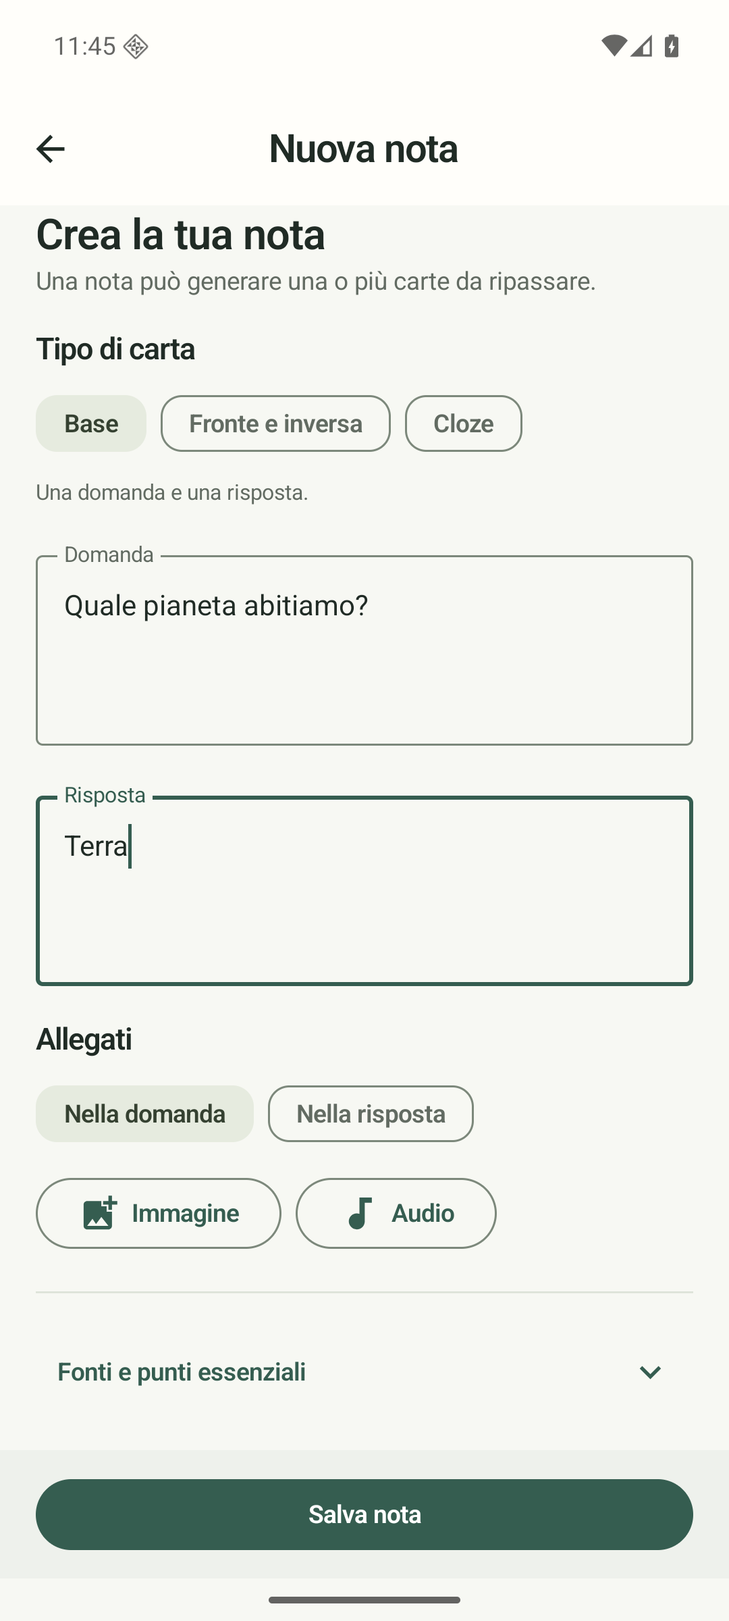
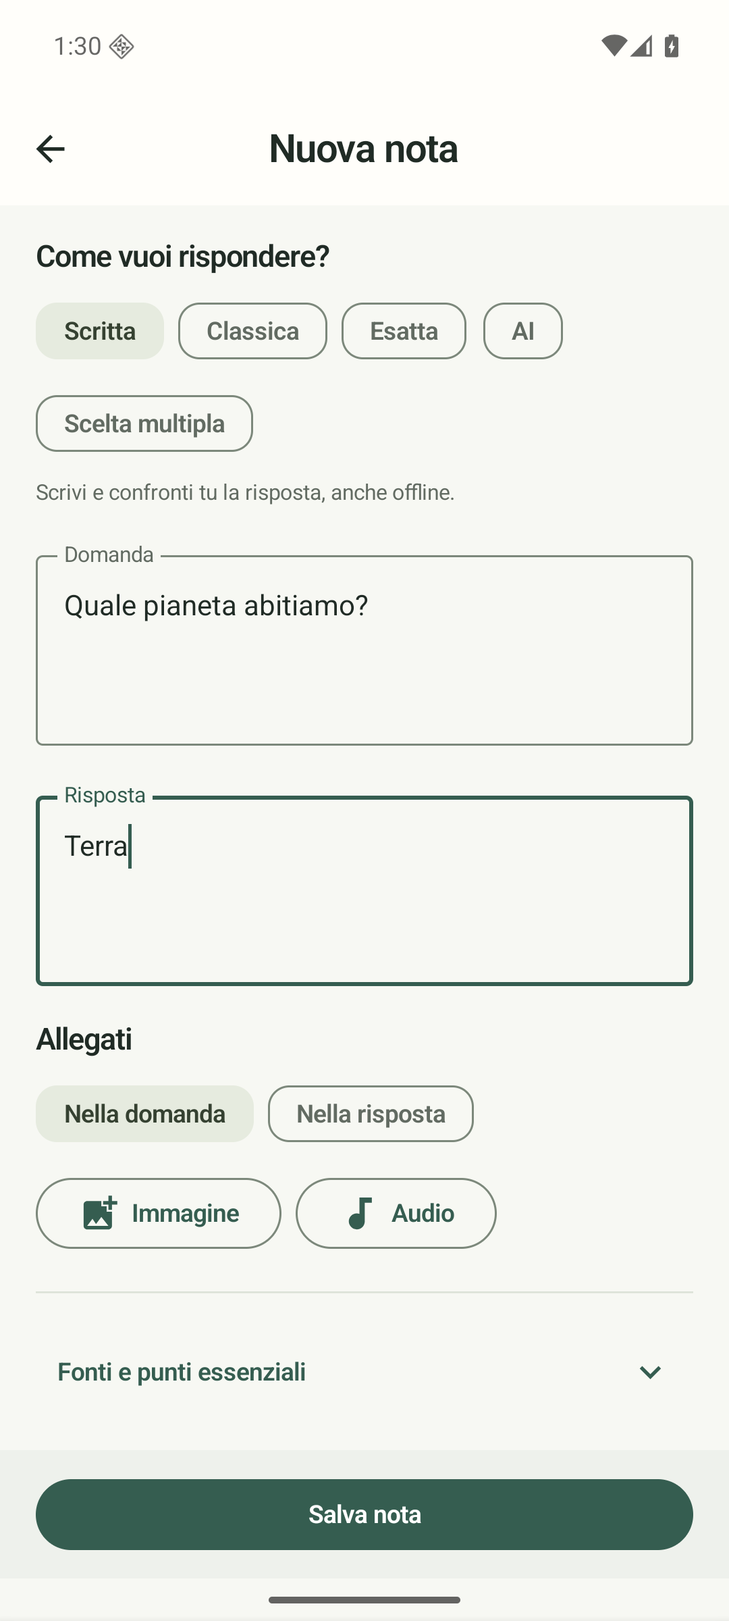
docs: record v0.3 behavior, visual checks, and Anki interoperability

diff --git a/ACCEPTANCE.md b/ACCEPTANCE.md
@@ -1,19 +1,20 @@
-# Accettazione v0.2
+# Accettazione v0.3
 
-Verifiche del 25 settembre 2026. Redesign sviluppato sul branch `feat/ui-ux-refresh`; la verifica Anki esterna sotto riportata proviene dalla v0.1 (`afc7b95`) e il relativo motore non è stato modificato dal redesign. Android 16/API 36, emulatore arm64 Pixel 7 dedicato; JDK 17. CI aggiunge Android API 35 x86_64.
+Verifiche del 25 settembre 2026. Risposte, scelta multipla, ripasso libero e pet sviluppati sul branch `feat/answer-modes-practice-pet`. Tutti gli oracle Anki sotto riportati sono stati rieseguiti sui pacchetti prodotti dalla v0.3. Android 16/API 36, emulatore arm64 Pixel 7 dedicato; JDK 17. CI aggiunge Android API 35 x86_64.
 
 ## Esito
 
 - [x] R01/R10: creazione manuale, generazione inversa/cloze, modifica atomica delle note importate e persistenza Room; scambio dei media verificato tramite Anki.
-- [x] R02/R03: classica, esatta, correzione AI simulata e fallback senza chiave; rettifica indipendente dal voto; abilitazione modalità su selezione di carte.
+- [x] R02/R03: classica, scritta, esatta, scelta multipla, correzione AI simulata e fallback senza chiave; rettifica indipendente dal voto; abilitazione modalità su selezione di carte.
 - [x] R04/R06: server simulato per protocollo AI, conflitto fonte, errori HTTP/JSON/timeout e assenza di retry automatici; bozza conservata.
 - [ ] R04/R06: chiamata a DeepSeek reale con chiave utente. **Non eseguita: chiave non fornita**, come previsto da R12.
 - [x] R05/R07: FSRS contro py-fsrs 6.3.2; doppio commit concorrente produce un solo ripasso; rettifica non modifica lo scheduling.
 - [x] R08: fixture Anki reali legacy/moderne, esportazione mista e nativa, reimportazione senza duplicati; oracle esterno Anki 26.9.3 sui file prodotti dall'APK.
 - [x] R09: backup/ripristino, copia preventiva, ZIP troncato, digest errato e path traversal; esclusione della chiave; file e ripassi conservati dopo riapertura.
 - [x] R10: bozza e risposta valutata conservate alla ricreazione; cronologia e statistiche implementate, cancellazione dati personali del tentativo verificata.
-- [x] R11: opzione gattino, reazione all'esito e verifica visiva chiaro/scuro. Il codice rispetta la scala animazioni di Android e mantiene neutro il pet su errori tecnici.
-- [x] R12: compilazione APK installabile, **8 test unitari e 16 test strumentali**, lint senza errori; documentazione di uso, build e limiti.
+- [x] R11: pet originale 罗小黑, battito degli occhi e reazioni a fotogrammi; verifica visiva chiaro/scuro. Animazioni sospese in background e pose statiche espressive con animazioni Android disattivate; nessun esito negativo attribuito agli errori tecnici.
+- [x] R13: ripasso libero anche senza carte in scadenza, ripetibile, cronologia separata, nessuna modifica FSRS; bozza del ripasso programmato isolata e posizione conservata alla ricreazione.
+- [x] R12: compilazione APK installabile, **8 test unitari e 23 test strumentali**, lint senza errori; documentazione di uso, build e limiti.
 
 ## Prove riproducibili
 
@@ -22,19 +23,19 @@ Verifiche del 25 settembre 2026. Redesign sviluppato sul branch `feat/ui-ux-refr
 ./gradlew connectedDebugAndroidTest
 ```
 
-Rapporti generati in `app/build/reports/tests/testDebugUnitTest/`, `app/build/reports/androidTests/connected/debug/` e `app/build/reports/lint-results-debug.html`. Lint segnala 15 warning informativi: target SDK/dipendenze più recenti disponibili e suggerimenti KTX; nessun errore. Versioni fissate per questa preview, senza una promessa di pubblicazione Play Store.
+Rapporti generati in `app/build/reports/tests/testDebugUnitTest/`, `app/build/reports/androidTests/connected/debug/` e `app/build/reports/lint-results-debug.html`. Lint segnala 17 warning informativi: target SDK/dipendenze più recenti disponibili e suggerimenti KTX; nessun errore. Versioni fissate per questa preview, senza una promessa di pubblicazione Play Store.
 
 | Suite | Evidenza |
 |---|---|
 | `ExactGradeTest` | Maiuscole/spazi, accenti, punteggiatura e refusi |
 | `Fsrs6Test` | Quattro voti, primo ripasso, stesso giorno, ritardo anche con frazione di giorno, bootstrap stato Anki |
 | `DeepSeekClientTest` | Contenuto richiesta, risposte JSON, conflitto fonte, malformed/vuoto/troncato, 401/429/500, timeout e nessun reinvio |
-| `RepositoryPersistenceTest` | Room, cloze Android, revisione concorrente/idempotente, backup, Keystore, riapertura, GUID e precedenza modifiche locali/remote |
-| `AnkiInteropTest` | Due fixture reali, media, cinque carte importate, cloze esatto, export misto e legacy nativo, reimportazione |
-| `StudyFlowTest` | Editor e uscita protetta, rettifica esito/voto, rete indisponibile, bozza non rivelata, stato valutato ripristinato, coda globale su due mazzi e risposte isolate fra carte |
+| `RepositoryPersistenceTest` | Room, cloze Android, revisione concorrente/idempotente, backup, Keystore, riapertura, GUID e precedenza modifiche locali/remote; scelta multipla, pratica idempotente, backup v2 e lettura v1 |
+| `AnkiInteropTest` | Due fixture reali, media, cinque carte importate, cloze esatto, export misto e legacy nativo, scelta multipla con recupero interattivo, modifica esterna, rimozione opzioni e reimportazione |
+| `StudyFlowTest` | Editor e uscita protetta, rettifica esito/voto, rete indisponibile, bozza non rivelata, stato valutato ripristinato, coda globale su due mazzi e risposte isolate fra carte; risposta scritta su carte classiche, editor scelta multipla, ripassi liberi ripetuti e ripristino della posizione |
 | `HostFlowTest` | Activity reale: impostazioni pet, creazione mazzo/nota, modalità, ricreazione Activity con bozza, esito corretto e voto |
 
-Screenshot del vero host: [home](docs/screenshots/home-light.png), [editor](docs/screenshots/editor-light.png), [impostazioni](docs/screenshots/settings-light.png), [cronologia](docs/screenshots/history-light.png), studio [chiaro](docs/screenshots/study-light.png) e [scuro](docs/screenshots/study-dark.png). La verifica visiva ha corretto la sovrapposizione della tastiera al salvataggio, gli esiti duplicati e i conteggi al singolare. Il percorso reale completo è passato anche in tema scuro con [testo al 130%](docs/screenshots/study-large-font.png); verificati scorrimento e [Salva sopra la tastiera](docs/screenshots/editor-keyboard-light.png). Ricerca, decisioni e provenienza del nuovo pet sono in [UI-UX.md](docs/UI-UX.md). Non è una certificazione su ogni dimensione dello schermo o dispositivo fisico. L'interruzione forzata nel mezzo del ripristino non è stata iniettata automaticamente: la protezione deriva dal puntatore alla generazione file aggiornato nella stessa transazione Room, verificato con ripristino e riapertura.
+Screenshot della v0.3 dal vero host: [home](docs/screenshots/home-light.png), [editor](docs/screenshots/editor-light.png), [impostazioni](docs/screenshots/settings-light.png), [cronologia](docs/screenshots/history-light.png), studio [chiaro](docs/screenshots/study-light.png) e [scuro senza animazioni](docs/screenshots/study-dark.png). Il nuovo flusso è documentato con [editor a scelta multipla](docs/screenshots/multiple-choice-editor.png), [ripasso libero](docs/screenshots/multiple-choice-practice.png) e [feedback](docs/screenshots/multiple-choice-feedback.png). Animazione osservata anche fuori dal runner: [occhi aperti](docs/screenshots/pet-idle.png) e [battito degli occhi](docs/screenshots/pet-blink.png) nella stessa Activity. Verificati scorrimento e [Salva sopra la tastiera](docs/screenshots/editor-keyboard-light.png). La prova al [130% di testo](docs/screenshots/study-large-font.png) appartiene alla v0.2; non è stata ripetuta per i nuovi controlli. Ricerca, decisioni e provenienza del pet sono in [UI-UX.md](docs/UI-UX.md). Non è una certificazione su ogni schermo o dispositivo fisico. L'interruzione forzata nel mezzo del ripristino non è stata iniettata automaticamente: la protezione deriva dal puntatore alla generazione file aggiornato nella stessa transazione Room, verificato con ripristino e riapertura.
 
 ## Oracle Anki esterno
 
@@ -50,6 +51,8 @@ adb shell am instrument -w -e class io.github.giovannipivatoo.memoro.anki.AnkiIn
   io.github.giovannipivatoo.memoro.test/androidx.test.runner.AndroidJUnitRunner
 adb pull /sdcard/Android/data/io.github.giovannipivatoo.memoro/files/memoro-mixed-oracle.apkg
 adb pull /sdcard/Android/data/io.github.giovannipivatoo.memoro/files/memoro-native-legacy.apkg
+adb pull /sdcard/Android/data/io.github.giovannipivatoo.memoro/files/memoro-multiple-choice-oracle.apkg
+adb pull /sdcard/Android/data/io.github.giovannipivatoo.memoro/files/memoro-multiple-choice-removed-oracle.apkg
 ```
 
 In un ambiente Python separato con `anki==26.9.3` e il comando `zstd` disponibile:
@@ -57,14 +60,18 @@ In un ambiente Python separato con `anki==26.9.3` e il comando `zstd` disponibil
 ```sh
 python app/src/androidTest/anki/verify_export.py memoro-mixed-oracle.apkg
 python app/src/androidTest/anki/verify_export.py --native-legacy memoro-native-legacy.apkg
+python app/src/androidTest/anki/verify_export.py --multiple-choice memoro-multiple-choice-oracle.apkg
+python app/src/androidTest/anki/verify_export.py --multiple-choice-removed memoro-multiple-choice-removed-oracle.apkg
 ```
 
 Risultati dei file effettivamente estratti dall'emulatore, senza modificarli:
 
 | Pacchetto | Importato da Anki 26.9.3 | SHA-256 |
 |---|---|---|
[6 lines of base64/hex data omitted]
 
 L'oracle confronta GUID e campi, identità carta per GUID+ordinale+mazzo, coda/tipo/scadenza/intervallo/ripetizioni/lapsi, timestamp e voti revlog, hash dei byte multimediali. I conteggi da soli non costituiscono la verifica. Nuove esecuzioni generano ID, GUID e timestamp nuovi: gli hash della tabella identificano questa specifica esecuzione.
 

diff --git a/ARCHITECTURE.md b/ARCHITECTURE.md
@@ -11,7 +11,7 @@ Un modulo Android `app`, Kotlin, Compose Material 3, minSdk 26, database Room. P
 
 ## Modello e contratti
 
-`data/Models.kt` definisce Deck, Note, Card, Attempt, Review e ArchiveSnapshot. Una nota contiene campi e fonte facoltativa; genera una o più carte con ordinale, modalità e scheduling indipendenti. Il tentativo conserva bozza, esito automatico, esito umano e feedback. Il ripasso conserva il voto FSRS: correttezza e voto non sono intercambiabili.
+`data/Models.kt` definisce Deck, Note, Card, Attempt, Review e ArchiveSnapshot. Una nota contiene campi e fonte facoltativa; genera una o più carte con ordinale, modalità e scheduling indipendenti. Il tentativo conserva bozza, esito automatico, esito umano e feedback. `Note.multipleChoice` contiene opzioni e indice corretto per una nota Base; il riferimento deve coincidere con l’opzione corretta. `saveNote(note, preferredMode)` applica la modalità alle carte native nella stessa transazione. Il ripasso conserva il voto FSRS: correttezza e voto non sono intercambiabili.
 
 `MemoroRepository` espone osservazione, CRUD, carte dovute, tentativi, commit del ripasso e snapshot. Room salva corpi JSON versionabili e colonne indicizzate per selezioni e identità. `commitReview` aggiorna scheduling, tentativo e review nella stessa transazione; l'indice univoco del tentativo impedisce doppi ripassi. `saveNoteAndCards` mantiene atomica la modifica di una nota importata e di tutte le sue carte, anche distribuite su mazzi diversi. Modificare i contratti richiede comunicazione ai consumatori prima dell'implementazione.
 
@@ -19,7 +19,9 @@ I client AI restituiscono risultati senza accedere al repository o alle scadenze
 
 ## Ciclo di vita e studio
 
-`MemoroHost`, un AndroidViewModel, mantiene repository e servizi durante la ricreazione dell'Activity. Compose salva pagina e dati transitori con `rememberSaveable`; le bozze e i risultati già valutati vengono ricaricati da Room prima di abilitare l'input. La risposta di riferimento e la fonte restano nascoste fino all'invio. L'autovalutazione è sempre disponibile senza rete. Le modifiche multiple alla modalità disabilitano temporaneamente l'avvio dello studio fino al salvataggio.
+`MemoroHost`, un AndroidViewModel, mantiene repository e servizi durante la ricreazione dell'Activity. Compose salva pagina e dati transitori con `rememberSaveable`; le bozze e i risultati già valutati vengono ricaricati da Room prima di abilitare l'input. La risposta di riferimento e la fonte restano nascoste fino all'invio. L'autovalutazione è sempre disponibile senza rete. `Attempt.isPractice` separa bozze e risultati del ripasso libero. `finishPractice` porta un tentativo valutato a PRACTICED in modo idempotente; non crea Review. `commitReview` rifiuta tentativi liberi. Il cursore della sessione libera sopravvive alla ricreazione.
+
+Le modifiche multiple alla modalità disabilitano temporaneamente l'avvio dello studio fino al salvataggio.
 
 FSRS-6 è Kotlin puro, con parametri standard, retention 90% e fuzzing disabilitato. Passi iniziali 1 e 10 minuti, riapprendimento 10 minuti. Il bootstrap delle carte Anki senza stato di memoria usa l'intervallo esistente al primo ripasso. Le formule sono verificate contro py-fsrs; provenienza e comando di riferimento in THIRD_PARTY_FSRS.md.
 
@@ -31,9 +33,11 @@ Il digest del pacchetto identifica la provenienza, non la nota. La reimportazion
 
 Rendering con componenti Android nativi, senza WebView/JavaScript/rete; HTML/template complessi sono semplificati con avviso. Media locali con percorsi validati e limiti dimensionali. Preset avanzati e personalizzazioni non riproducibili sono segnalati e l'originale `.apkg` viene conservato. La versione moderna esporta un database schema 11 dentro il contenitore zstd accettato da Anki.
 
+Le note Memoro a scelta multipla diventano carte Anki Base con opzioni statiche e un terzo campo `MemoroMC` ignorato dal template. Metadati versionati e hash dei due fronti permettono di ricostruire la modalità interattiva solo se il contenuto è coerente. Una modifica esterna dei fronti invalida il recupero e produce un avviso, mantenendo il contenuto Anki visibile.
+
 ## Backup e credenziali
 
-Lo ZIP include snapshot versione 1, file con dimensione/digest, fonti, tentativi, media e originali Anki. Prima del ripristino vengono validati percorsi, dimensioni, digest, identità e riferimenti; viene creato un backup preventivo. I nuovi file sono completati in una directory di generazione separata, poi Room sostituisce i dati e il puntatore alla generazione nella stessa transazione. Una terminazione del processo lascia referenziata la generazione completa precedente o successiva. Le vecchie generazioni sono conservate: nessuna garbage collection nella v0.1.
+Lo ZIP include snapshot versione 2 (il lettore accetta anche la versione 1), file con dimensione/digest, fonti, tentativi, media e originali Anki. Prima del ripristino vengono validati percorsi, dimensioni, digest, identità e riferimenti; viene creato un backup preventivo. I nuovi file sono completati in una directory di generazione separata, poi Room sostituisce i dati e il puntatore alla generazione nella stessa transazione. Una terminazione del processo lascia referenziata la generazione completa precedente o successiva. Le vecchie generazioni sono conservate: nessuna pulizia automatica delle generazioni nella preview attuale.
 
 La chiave API è cifrata con Android Keystore, esterna allo ZIP; preferenze UI in SharedPreferences. Il manifest esclude backup e trasferimento automatici Android. I file restano nello spazio privato dell'app; l'esportazione è una scelta esplicita attraverso il selettore documenti di Android.
 

diff --git a/README.md b/README.md
@@ -8,11 +8,12 @@ App Android in **Kotlin e Jetpack Compose**, con flashcard locali, ripasso FSRS-
 
 - Home con ripasso di tutti i mazzi, ricerca nelle note ed editor con salvataggio sempre visibile.
 - Mazzi e note manuali: fronte/retro, inverse e cloze; immagini e audio locali.
-- Studio classico, risposta scritta esatta oppure correzione AI con chiave personale.
+- Risposta scritta con autovalutazione offline, confronto esatto, scelta multipla, studio classico oppure correzione AI con chiave personale.
+- Ripasso libero di tutto il mazzo, anche senza carte dovute: conserva le risposte senza cambiare le scadenze.
 - Risposta di riferimento, errori e omissioni; fonte facoltativa inserita manualmente. Puoi rettificare l'esito e scegliere separatamente il voto del ripasso.
 - Cronologia dei tentativi, statistiche, bozze persistenti e ripristino dopo rotazione.
 - Importazione/esportazione Anki `.apkg`, backup ZIP completo dei contenuti.
-- Gattino nero facoltativo, disattivato inizialmente; tema chiaro/scuro di sistema.
+- Pet animato **罗小黑 (Luo Xiaohei)** con battito degli occhi e reazioni, facoltativo e disattivato inizialmente; tema chiaro/scuro di sistema.
 
 ## Compilazione e installazione
 
@@ -36,17 +37,20 @@ I test strumentali usano dati sintetici e possono sostituire l'archivio dell'app
 ## Primo utilizzo
 
 1. In **Mazzi**, crea un mazzo e aggiungi una nota. Una nota inversa genera due carte. Per una cloze scrivi, per esempio, `Roma è la capitale {{c1::d'Italia}}`.
-2. Nel menu di una carta scegli **Modalità risposta**: **Classica**, **Esatta** o **AI**. Per più carte usa **Seleziona → Imposta modalità**. Le carte importate partono in modalità classica. Esatta ignora maiuscole e spazi esterni, ma distingue accenti e punteggiatura; per le cloze confronta il termine nascosto.
+2. Nell’editor scegli **Come vuoi rispondere?**: **Scritta** (offline), **Classica**, **Esatta**, **AI** o **Scelta multipla**. Per la scelta multipla inserisci 2–6 opzioni e indica quella corretta. Puoi cambiare modalità anche dal menu della carta. Per più carte usa **Seleziona → Imposta modalità**. Le carte importate partono in modalità classica. Esatta ignora maiuscole e spazi esterni, ma distingue accenti e punteggiatura; per le cloze confronta il termine nascosto.
 3. Tocca **Studia ora** nel mazzo oppure **Inizia ripasso** nella home per tutti i mazzi. Dopo l'invio usa **Modifica esito** per correggere il giudizio, anche per un refuso. I quattro voti mostrano quando tornerà la carta. Solo **Da rifare / Difficile / Buona / Facile** registra il ripasso e aggiorna la scadenza. Un problema di rete non viene trattato come una risposta errata.
-4. In **Cronologia**, consulta ripassi e tentativi oppure cancella testo e feedback personali mantenendo il voto già registrato.
+4. Usa **Ripasso libero** nel mazzo per rifarlo quando vuoi, anche se non ci sono carte dovute. **Prossima carta** conserva la risposta senza modificare FSRS; i risultati sono nella sezione **Ripassi liberi** della cronologia.
+5. In **Cronologia**, consulta ripassi e tentativi oppure cancella testo e feedback personali mantenendo il voto già registrato.
 
 In **Impostazioni** puoi attivare il gattino, importare/esportare `.apkg`, creare un backup o ripristinarlo. La conferma di ripristino sostituisce l'archivio dopo la validazione e conserva sul dispositivo una copia preventiva. Per spostare anche fonti, tentativi e feedback usa il backup Memoro: questi dati aggiuntivi non fanno parte del formato Anki.
 
 Per la correzione AI salva la tua chiave DeepSeek e il modello nelle impostazioni. La chiave è protetta da Android Keystore e non entra nel backup. Solo un invio esplicito in modalità AI trasmette domanda, riferimento, risposta e l'eventuale estratto fonte a DeepSeek. Non vengono caricati mazzi interi o file; gli URL della fonte sono metadati e non vengono aperti. Senza chiave o rete puoi usare l'autovalutazione. La prova con una chiave reale resta da effettuare; i test automatici usano un server simulato.
 
-## Compatibilità e limiti della v0.2
+## Compatibilità e limiti della v0.3
 
 Anki legacy e moderno sono verificati con fixture e importazione nel motore Anki 26.9.3: note base/inverse/cloze, GUID, campi, scadenze, stato, cronologia e byte dei media. L'esportazione moderna usa un database compatibile schema 11 in contenitore zstd. Template personalizzati e JavaScript vengono mostrati in forma semplificata e inerte, con avvisi; JavaScript e rete dalle carte sono disabilitati. Impostazioni avanzate dei modelli e preset personalizzati non sono riprodotti integralmente; l'esportazione lo segnala e i pacchetti originali sono conservati nel backup. Riferimenti a media dentro CSS/template personalizzati possono richiedere correzioni manuali dopo una collisione di nomi.
+
+Le note a scelta multipla Memoro vengono esportate in Anki con opzioni statiche e risposta corretta; un avviso segnala che i pulsanti di scelta sono una funzione Memoro. La reimportazione recupera opzioni e risposta interattiva se i metadati sono ancora coerenti. I backup Memoro v2 conservano tutte le modalità e i ripassi liberi; questa versione legge anche i backup v1.
 
 Le scadenze importate restano valide fino al ripasso in Memoro, che applica FSRS-6 con retention 90%, passi di apprendimento predefiniti e senza fuzzing. In assenza dello stato FSRS, il primo ripasso stima la memoria dall'intervallo Anki. Non è garantita identità con ogni configurazione di Anki. Il confronto fra modifiche locali e importate usa i timestamp dei dispositivi.
 

diff --git a/SPEC.md b/SPEC.md
@@ -5,7 +5,7 @@ App Android personale open source, Kotlin/Jetpack Compose, BSD-2-Clause. Dati lo
 ## Requisiti
 
 - R01: Creare, modificare, eliminare mazzi e note manualmente; carte fronte/retro, inverse, cloze, immagini e audio. Distinguere nota e carte generate.
-- R02: Modalità per carta: CLASSIC (rivela/autovaluta), EXACT (risposta scritta confrontata localmente), AI (risposta scritta valutata da DeepSeek). Importazioni inizialmente CLASSIC. La UI imposta una modalità preferita per carta, anche su più carte selezionate; CLASSIC rimane disponibile nello studio. Archivi precedenti con più modalità restano leggibili. EXACT/AI richiedono risposte testuali compatibili.
+- R02: Modalità per carta: CLASSIC (rivela/autovaluta), EXACT (risposta scritta confrontata localmente), AI (risposta scritta valutata da DeepSeek), WRITTEN (risposta scritta con autovalutazione offline), MULTIPLE_CHOICE (scelta fra 2–6 opzioni distinte, una corretta). Le nuove note manuali partono in WRITTEN; scelta multipla per note Base con opzioni configurate. Importazioni inizialmente CLASSIC. La UI imposta una modalità preferita per carta, anche su più carte selezionate; CLASSIC e WRITTEN rimangono disponibili nello studio. Archivi precedenti con più modalità restano leggibili. EXACT/AI richiedono risposte testuali compatibili.
 - R03: EXACT ignora maiuscole/minuscole e spazi esterni, distingue accenti e punteggiatura. Utente può rettificare ogni esito in corretta/parziale/errata, senza cambiare la carta.
 - R04: AI confronta domanda, risposta di riferimento, risposta utente, eventuali punti essenziali ed estratto fonte. Mostra riferimento, esito, errori, omissioni e spiegazione. Esiti: corretta, parziale, errata, non valutabile. Conflitti fonte/risposta sono non valutabili; niente invenzione di fonti. Link/pagina sono metadati, non fonti lette.
 - R05: Solo conferma umana Da rifare/Difficile/Buona/Facile aggiorna FSRS e registra ripasso, atomicamente e una volta per tentativo. AI e rettifica non programmano scadenze. Conservare testo, esito automatico e finale separati.
@@ -14,7 +14,8 @@ App Android personale open source, Kotlin/Jetpack Compose, BSD-2-Clause. Dati lo
 - R08: Import/export .apkg legacy e moderno: contenuti supportati, media, cronologia, scadenze e stato; identificativi stabili e reimportazione senza duplicati. Rapporto incompatibilità per template/JS non supportati; preservare pacchetto originale. Nessuna perdita silenziosa. Rendering isolato senza JS/rete. .colpkg e sincronizzazione AnkiWeb fuori v1.
 - R09: Backup completo versionato di dati, tentativi, fonti, media e pacchetti originali; esclusa chiave API. Validare prima di ripristino, conferma esplicita, backup preventivo. Nessun backup cloud Android automatico.
 - R10: Schermate mazzi, elenco/editor, studio, cronologia/statistiche, impostazioni. Statistiche scadenze/ripassi/esiti. Modalità scritte rivelano risposta solo dopo invio; classica su richiesta.
-- R11: Gattino nero con testa e occhi grandi, illustrazione trasparente ispirata al pet di riferimento fornito dall’utente, opzionale disattivato inizialmente. Attesa/festa/incoraggiamento/pensieroso; segue esito rettificato; neutro su errore tecnico. Silenzioso, non sposta controlli, pose statiche con movimento ridotto.
+- R13: Ripasso libero di tutte le carte attive del mazzo, anche senza carte dovute. Tentativi e risultati sono persistiti separatamente; completare un ripasso libero non crea Review e non modifica FSRS o scadenze. Conservare le bozze del ripasso programmato.
+- R11: Gattino nero con testa e occhi grandi, sprite animato del pet personale 罗小黑 (Luo Xiaohei) indicato dall’utente, opzionale disattivato inizialmente. Attesa/festa/incoraggiamento/pensieroso; segue esito rettificato; neutro su errore tecnico. Silenzioso, non sposta controlli, fotogrammi statici con movimento ridotto. Battito degli occhi e movimento di attesa; salto, saluto, incoraggiamento e riflessione secondo l’esito. Animazioni sospese in background.
 - R12: Sorgenti, documenti, APK, build riproducibile e verifiche Android. Prova DeepSeek reale subordinata a chiave utente, indicata pendente se assente.
 
 ## Rimandato

diff --git a/docs/UI-UX.md b/docs/UI-UX.md
@@ -26,13 +26,17 @@ Le pagine e le immagini ufficiali sono state consultate come riferimento. Nessun
 
 ## Gattino
 
-[Asset PNG trasparente](../app/src/main/res/drawable-nodpi/memoro_cat.png), generato con lo strumento ImageGen a partire dallo screenshot del pet fornito dall'utente. È un'illustrazione raster nuova, non un ritaglio dello screenshot. Testa nera molto grande, occhi ovali color crema, orecchio interno verde menta, corpo piccolo e coda ricurva. L'utente ha richiesto esplicitamente questa somiglianza.
+Dalla v0.3 l'app usa lo [spritesheet del pet personale 罗小黑](../app/src/main/res/drawable-nodpi/luoxiaohei_sprites.webp), identificato dall'utente come riferimento. Il file è copiato senza modifiche dal pet `luoxiaohei2d` presente sul suo computer. Descrizione originale: “A tiny black cat Codex companion inspired by Luo Xiaohei, simplified into a cute polished Codex digital pet style.”
 
-Il pet rimane facoltativo e disattivato inizialmente. Un piccolo salto e una scintilla indicano una risposta corretta; una lieve inclinazione e un cuore accompagnano un errore o una risposta parziale. Tre puntini indicano il giudizio non valutabile; una coda vuota mantiene il pet in attesa. Non cambia la posizione dei controlli. Il giudizio rettificato dall'utente determina la reazione.
+Compose mostra i fotogrammi di attesa e battito degli occhi, salto per un esito corretto, saluto per uno parziale, incoraggiamento dopo un errore e riflessione per un esito non valutabile. I controlli restano fermi. La scala animazioni Android a zero seleziona pose statiche; il passaggio in background interrompe l'animazione. Nessun suono o servizio in background.
 
-Prompt di generazione:
+La [precedente illustrazione generata e relativo prompt](https://github.com/giovannipivatoo/memoro/blob/v0.2.0/docs/UI-UX.md#gattino) rimangono documentati nella v0.2.
 
-> Use case: identity-preserve. Asset type: transparent mascot sprite for an Android flashcard app. Attached screenshot character reference, not background. Recreate same little black kitten, hugely oversized round black head, enormous pale butter-yellow oval eyes with black oval pupils, three-quarter facing left, asymmetric ears with pale mint right inner ear, tiny seated black body/four paws, thick hooked tail right. Deep black with warm brown outlines. Faithful proportions/silhouette, curious friendly, not owl/rabbit/realistic. Crisp hand-drawn 2D game pet, subtle pixel-art inspiration, flat colors, no glossy 3D/fur detail. Center fully visible 8% transparent padding. True alpha, no checkerboard/floor/shadow/UI/text/watermark.
+## Estensione risposte e ripasso libero (v0.3)
+
+La modalità si sceglie già nell'editor. Scritta è l'impostazione iniziale delle note manuali e funziona offline; Esatta e AI restano selezioni esplicite. La scelta multipla ha 2–6 opzioni e una risposta corretta, senza mostrare l'indice durante lo studio. Riferimento e rettifica compaiono dopo l'invio.
+
+Il dettaglio mazzo offre sempre Ripasso libero quando contiene carte attive. I risultati vengono conservati in una sezione dedicata della cronologia; le scadenze e i quattro voti del ripasso programmato rimangono separati.
 
 ## Verifica
 
